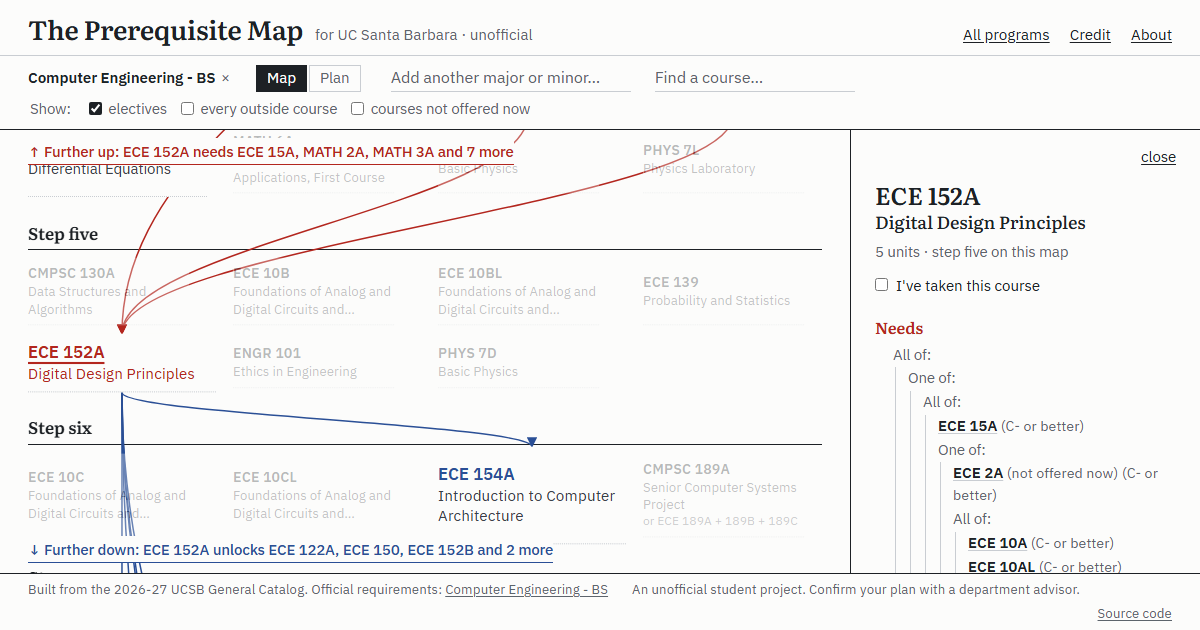
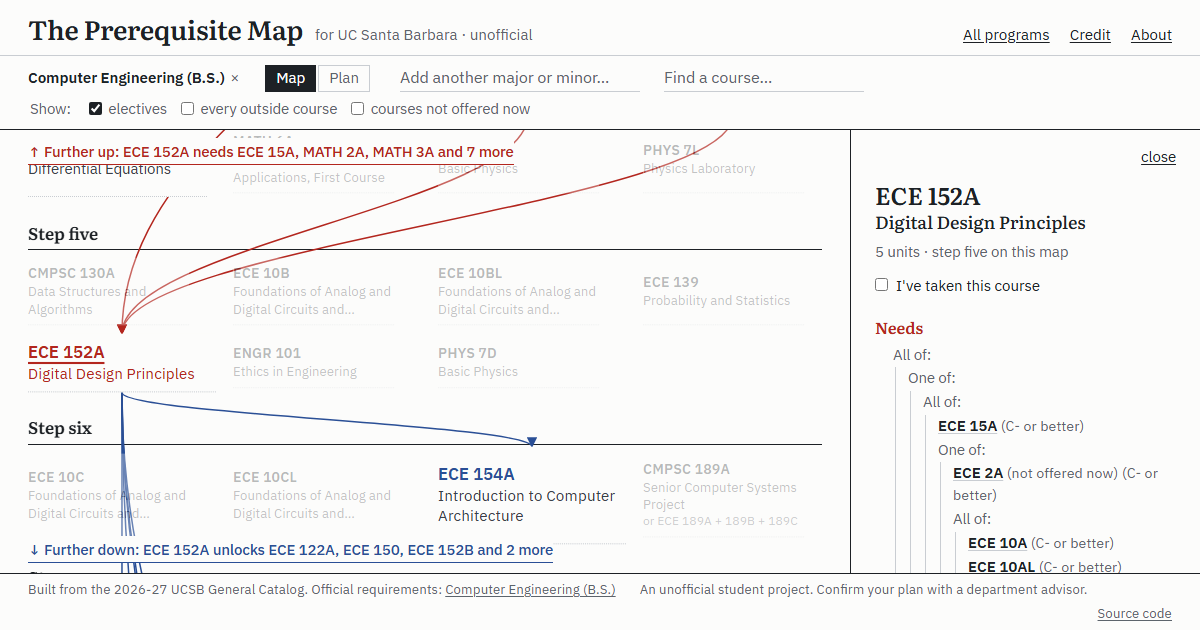
Improvements: write-up in PART9.md, refreshed preview image

Changed region(s): [[0.4933, 0.9048, 0.8942, 0.9651], [0.1542, 0.0905, 0.4933, 0.1508], [0.555, 0.1206, 0.6475, 0.1508]]

diff --git a/PART9.md b/PART9.md
@@ -195,3 +195,53 @@ Also fixed: a course from outside the programs on screen used to fall back to 4 
 - **Course codes only** in the requirements column (MATH 2A, not "MATH 2A Calculus with Algebra and Trigonometry"). Pointing at a code still shows its title.
 - **No "add a slot" in Pre-major or Preparation for the major**, in the column or from auto-fill (`slotsAllowed`). Students take specific courses there. Upper-division electives keep their slots.
 - **Click a line to collapse a group, as in a Reddit thread.** Every group inside an area hangs off a thin vertical line. Clicking the line, or the group's heading, collapses the whole group to one line ("All of 0 of 2 · 2 courses"); clicking the heading opens it again. Long lists start collapsed. This replaced the triangle folds inside areas, so every group works the same way.
+
+## Revision 3: the IMPROVEMENTS.md list
+
+Each item below has a test that fails without the fix (test_site.py or test_graph.py). Commits are on the `improvements` branch, one per item or small group.
+
+### P0: wrong plans
+
+1. **Computer Engineering capstone is "one of two sequences".** program_overrides.json gets a `choose` override (with a `why` quoting the department sheet): CMPSC 189A–B *or* ECE 189A–C. build_majors.py learned the new `choose` kind.
+2. **Class standing counts.** "Senior standing" puts a course in year 4 at the earliest, "junior standing" or upper division in year 3, "sophomore"/"not open to freshmen" in year 2 (`standingYear`). A course placed too early is flagged.
+3. **Upper-division courses start in year 2 or later** (`placementYear`).
+4. **The start year defaults to the current academic year** (Fall of this year from September, else last year), and the label reads "First quarter at UCSB: Fall 2026".
+5. **Reading a transcript into a plan no longer scrambles it.** Nothing is auto-placed before the quarter after your last graded course (`firstOpenIndex`); courses the transcript covers come out of the plan (`pruneCovered`), and the rest of the auto-filled plan is laid out again (`rebuildAfterTranscript`). Courses you placed by hand stay where you put them.
+6. **Completed courses aren't flagged.** A course that's done (taken, credit, passed, or implied by a later course you passed) has no missing prerequisites.
+7. **AP credit takes covered courses out of the plan,** and the message updates instead of going stale.
+8. **Link previews.** og:image and Twitter card tags, with site/preview.png made by the new build_preview.py.
+
+### P1: confusing or missing
+
+9. **Search boxes** (new site/search.js) replace the browser's `<datalist>`, which only matched exact text:
+   - Case and spaces don't matter ("cs 16", "MATH4A"), and common nicknames work (cs, stats, econ, ee, poli sci, psych…).
+   - Arrow keys and Enter; clicking into a box selects its text.
+   - No match says so and offers the nearest name: "No match for 'economcs'. Did you mean Economics (B.A.)?"
+   - **Course search works on the front page.** Its panel lists every program that uses the course, each linking straight to it on that map. The data is site/data/course-index.json (233 KB, loaded the first time the box is used), built by build_graph.py.
+10. **When courses are offered.** build_graph.py reads it from hand corrections (new offering_overrides.json), then the catalog's field, then phrases in course text: 121 courses in all. ECE 139 is Spring only, from the department's 4-year plan. Everything else is assumed Fall/Winter/Spring and marked with a faint "?" in the plan. UCSB's public API has real quarter data, but it needs an API key; that's your call.
+11. **Repeated courses on a transcript.** Every attempt is listed; earlier ones are unticked ("earlier attempt, replaced by B"), as GOLD's repeat rule works.
+12. **GPA label:** "GPA of graded courses in this plan", with a note that GOLD's own GPA is the official one.
+13. **Online twins share a card:** "PSTAT 120A (or online PSTATW 120A)". Taking either counts for both.
+14. **No empty condition text.** The hand overrides in overrides.json now carry the catalog's words (`@other{significant prior programming experience}`); test_graph.py fails on any empty one.
+15. **Small phones (checked at 375×667, iPhone SE size).**
+   - Plan view: the settings fold behind **Settings** and the five plan links behind a **⋯** menu. The grid starts about 180px down instead of about 400.
+   - Map: one intro line with **How to read this** for the key.
+   - The header **shrinks once you scroll** (tagline and the add-a-program box go) and comes back at the top.
+16. **Wording:** "All of these", "One of these", "Choose 2 of these", and progress as "0/2 done".
+
+### P2: polish
+
+17. **One name format:** "Computer Engineering (B.S.)", "Statistical Science (minor)", "Anthropology (B.A., Archaeology Emphasis)" (`displayName` in app.js), everywhere a program is named.
+18. **The Show checkboxes are hidden on the front page** until a program is open.
+19. **AP box: a score dropdown only** ("—" = not taken; nothing set by default) and a **filter box** for the ~40 exams. Exams with a score stay in view while filtering.
+20. **Elective slots spread evenly.** Each goes in the quarter (year 3 on) with the fewest units so far. Computer Engineering's year 4 went from Fall 15 / Winter 12 / Spring 0 units to 11 / 12 / 8.
+21. **pdf.js 3.11.174 → 4.10.38** (CVE-2024-4367 is fixed from 4.2.67). Version 4 is a JavaScript module only, and a module loaded with `import()` can't carry an integrity hash, so transcript.js downloads each file with `fetch()` and an SRI hash, then runs it from a local `blob:` copy; a file that doesn't match is refused. `isEvalSupported: false` is set. Tested on the site and in the one-file copy opened from disk.
+22. **Privacy text vs. analytics:** no change, since the site has no analytics.
+23. **The one-file copy's size** (8.7 MB) shows next to both links to it; build_single.py keeps the number current.
+24. **Program count:** no change needed (the list checked it).
+25. **ECE 139 vs PSTAT 120A:** the 2026–27 catalog data for Computer Engineering lists ECE 139 only and doesn't mention PSTAT 120A, so no override was added. The department's pages blocked automated access (403), so it's worth asking the CE advisor whether PSTAT 120A is still accepted.
+
+### Also fixed along the way
+
+- **The one-file copy crashed when opened straight at a program** ("passedCourse is not defined"): it started before the later scripts had loaded. It now starts on DOMContentLoaded.
+- **build_graph.py's cleanup deleted credit.json**, emptying the Credit box until build_credit.py ran again. It now keeps that file (`KEEP_IN_DATA`).
